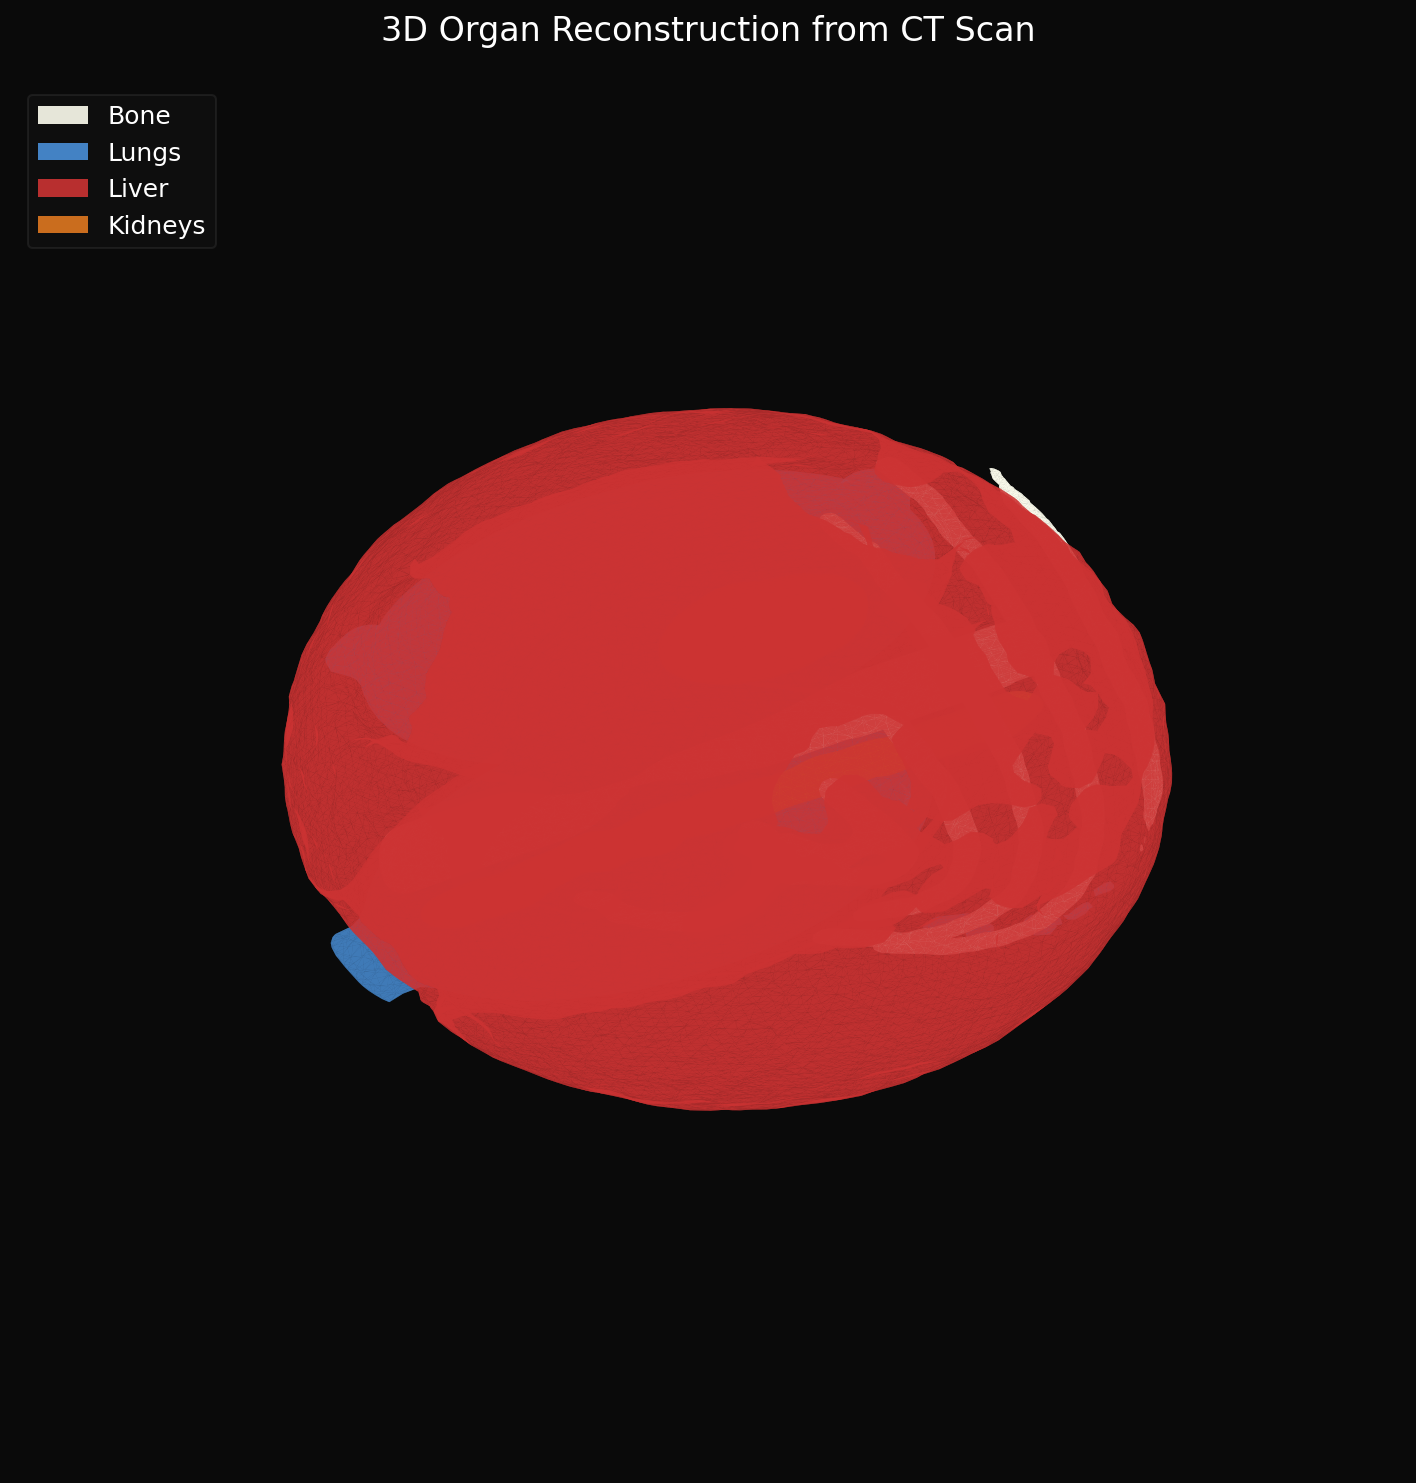
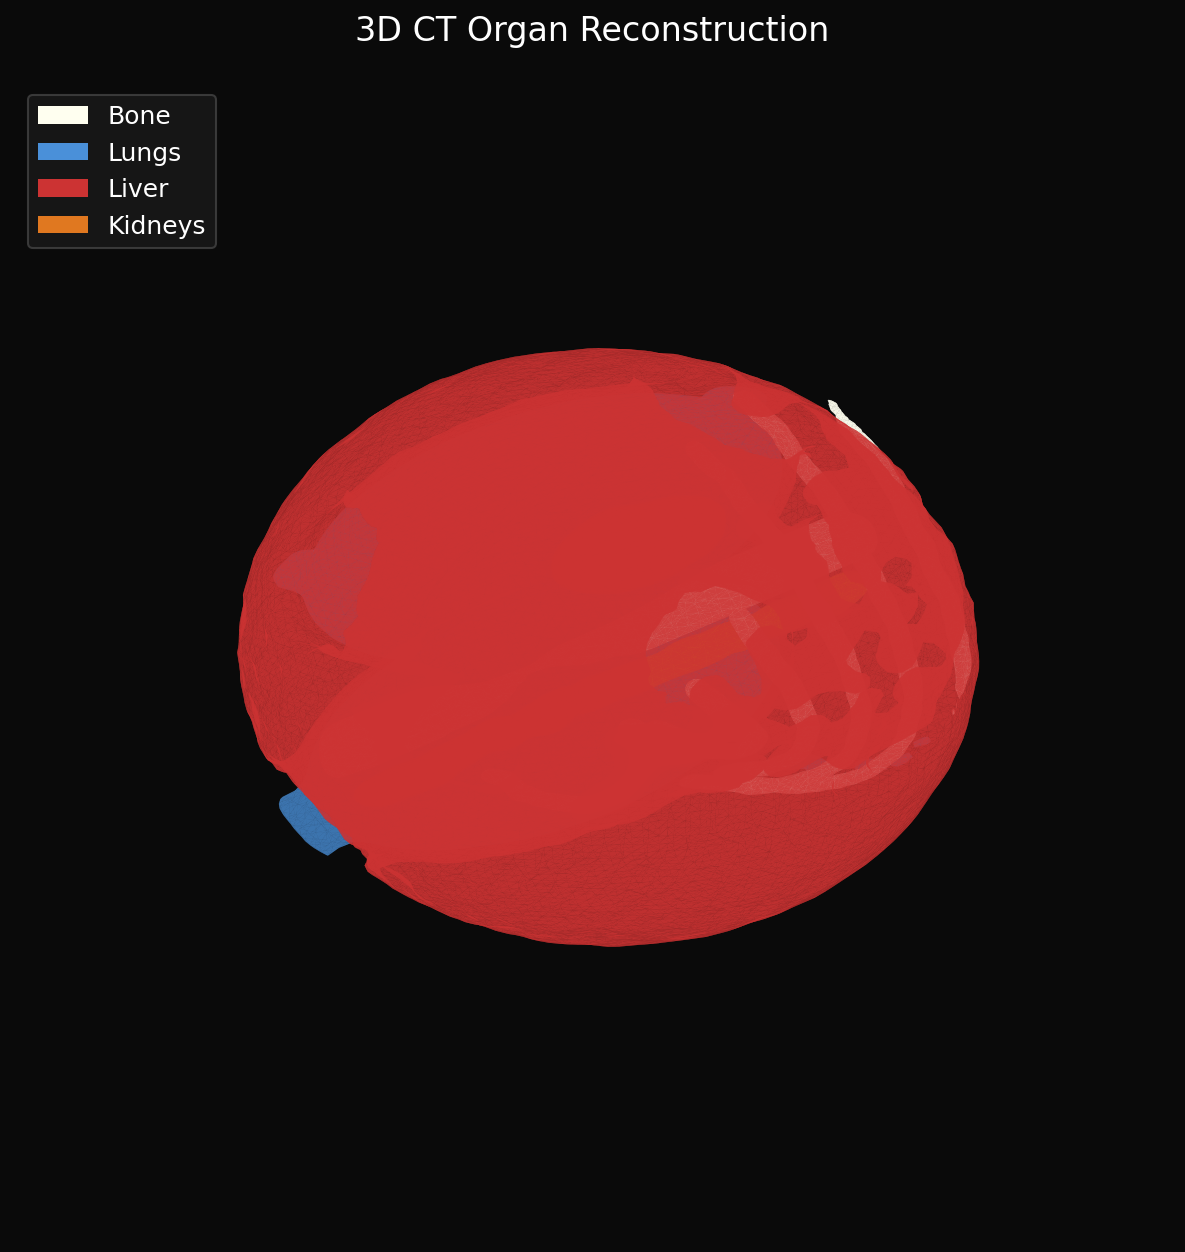
add run.py — single command pipeline execution

diff --git a/run.py b/run.py
@@ -1,0 +1,225 @@
+"""
+CT Organ Reconstruction Pipeline
+Run this script to generate all outputs in one command:
+    python run.py
+"""
+
+import numpy as np
+import matplotlib.pyplot as plt
+from scipy import ndimage
+from skimage import measure
+from mpl_toolkits.mplot3d import Axes3D
+from mpl_toolkits.mplot3d.art3d import Poly3DCollection
+import matplotlib.animation as animation
+import struct
+import os
+import warnings
+warnings.filterwarnings('ignore')
+
+os.makedirs('outputs', exist_ok=True)
+os.makedirs('outputs/meshes', exist_ok=True)
+
+print("=" * 55)
+print("  CT Organ Reconstruction Pipeline")
+print("=" * 55)
+
+# ── STEP 1 — Generate CT volume ────────────────────────────────────
+print("\n[1/5] Generating CT volume...")
+
+np.random.seed(42)
+
+def generate_ct_volume(shape=(128, 256, 256)):
+    volume = np.full(shape, -1000, dtype=np.float32)
+    z, y, x = np.ogrid[:shape[0], :shape[1], :shape[2]]
+    cz, cy, cx = shape[0]//2, shape[1]//2, shape[2]//2
+    body = ((z-cz)/50)**2 + ((y-cy)/90)**2 + ((x-cx)/70)**2 < 1
+    volume[body] = 50
+    spine = ((y-cy)/8)**2 + ((x-cx)/8)**2 < 1
+    volume[spine & body] = 700
+    for i, zpos in enumerate(range(30, 100, 10)):
+        angle = i * 0.3
+        for t in np.linspace(0, np.pi, 60):
+            rx = int(cx + 55 * np.cos(t) * np.cos(angle))
+            ry = int(cy + 55 * np.sin(t))
+            rz = int(zpos + 5 * np.sin(t * 2))
+            if 0<=rx<shape[2] and 0<=ry<shape[1] and 0<=rz<shape[0]:
+                volume[max(0,rz-2):rz+2,
+                       max(0,ry-2):ry+2,
+                       max(0,rx-2):rx+2] = 700
+    lung_l = ((z-cz)/40)**2+((y-(cy-20))/35)**2+((x-(cx-25))/25)**2 < 1
+    lung_r = ((z-cz)/40)**2+((y-(cy-20))/35)**2+((x-(cx+25))/25)**2 < 1
+    volume[lung_l & body] = -500
+    volume[lung_r & body] = -500
+    liver = ((z-(cz+15))/25)**2+((y-(cy+15))/30)**2+((x-(cx+20))/28)**2 < 1
+    volume[liver & body] = 60
+    kidney_l = ((z-cz)/15)**2+((y-(cy+10))/12)**2+((x-(cx-30))/10)**2 < 1
+    kidney_r = ((z-cz)/15)**2+((y-(cy+10))/12)**2+((x-(cx+30))/10)**2 < 1
+    volume[kidney_l & body] = 30
+    volume[kidney_r & body] = 30
+    aorta = ((y-(cy+5))/6)**2 + ((x-(cx-8))/6)**2 < 1
+    volume[aorta & body] = 40
+    noise = np.random.normal(0, 15, shape).astype(np.float32)
+    volume += noise
+    volume = ndimage.gaussian_filter(volume, sigma=0.8)
+    return volume
+
+volume = generate_ct_volume()
+print(f"    Volume shape: {volume.shape} — "
+      f"HU range: {volume.min():.0f} to {volume.max():.0f}")
+
+# ── STEP 2 — Segment organs ────────────────────────────────────────
+print("\n[2/5] Segmenting organs...")
+
+def segment_organs(volume):
+    masks = {}
+    bone = volume > 350
+    bone = ndimage.binary_closing(bone, iterations=2)
+    masks['bone'] = ndimage.binary_fill_holes(bone)
+
+    lung = (volume > -700) & (volume < -300)
+    labeled, n = ndimage.label(lung)
+    sizes = ndimage.sum(lung, labeled, range(1, n+1))
+    lung = np.isin(labeled, [i+1 for i,s in enumerate(sizes) if s>500])
+    lung = ndimage.binary_closing(lung, iterations=3)
+    masks['lungs'] = ndimage.binary_fill_holes(lung)
+
+    liver = (volume > 45) & (volume < 80)
+    liver = ndimage.binary_opening(liver, iterations=2)
+    liver = ndimage.binary_closing(liver, iterations=4)
+    liver = ndimage.binary_fill_holes(liver)
+    labeled, n = ndimage.label(liver)
+    if n > 0:
+        sizes = ndimage.sum(liver, labeled, range(1, n+1))
+        liver = labeled == (np.argmax(sizes) + 1)
+    masks['liver'] = liver
+
+    kidney = (volume > 20) & (volume < 45)
+    kidney = ndimage.binary_opening(kidney, iterations=2)
+    kidney = ndimage.binary_closing(kidney, iterations=3)
+    labeled, n = ndimage.label(kidney)
+    if n > 0:
+        sizes = ndimage.sum(kidney, labeled, range(1, n+1))
+        kidney = np.isin(labeled, np.argsort(sizes)[-2:]+1)
+    masks['kidneys'] = kidney
+    return masks
+
+masks = segment_organs(volume)
+for name, mask in masks.items():
+    print(f"    {name:<10}: {mask.sum():>8,} voxels")
+
+# ── STEP 3 — Build 3D meshes ───────────────────────────────────────
+print("\n[3/5] Building 3D meshes (Marching Cubes)...")
+
+organ_config = {
+    'bone':    {'step':1, 'color':'#FFFFF0', 'alpha':0.85},
+    'lungs':   {'step':2, 'color':'#4A90D9', 'alpha':0.55},
+    'liver':   {'step':2, 'color':'#CC3333', 'alpha':0.75},
+    'kidneys': {'step':1, 'color':'#E07820', 'alpha':0.85},
+}
+
+meshes = {}
+for organ, config in organ_config.items():
+    smoothed = ndimage.gaussian_filter(masks[organ].astype(float),
+                                       sigma=1.5)
+    verts, faces, normals, _ = measure.marching_cubes(
+        smoothed, level=0.5, step_size=config['step'])
+    meshes[organ] = {'verts':verts, 'faces':faces,
+                     'color':config['color'], 'alpha':config['alpha']}
+    print(f"    {organ:<10}: {len(verts):>6,} vertices, "
+          f"{len(faces):>7,} faces")
+
+# ── STEP 4 — Save outputs ──────────────────────────────────────────
+print("\n[4/5] Saving outputs...")
+
+# STL export
+def save_stl(verts, faces, filename):
+    with open(filename, 'wb') as f:
+        f.write(b'\x00' * 80)
+        f.write(struct.pack('<I', len(faces)))
+        for face in faces:
+            v0,v1,v2 = verts[face[0]],verts[face[1]],verts[face[2]]
+            e1, e2 = v1-v0, v2-v0
+            normal = np.cross(e1, e2)
+            norm = np.linalg.norm(normal)
+            if norm > 0: normal = normal/norm
+            f.write(struct.pack('<fff', *normal))
+            f.write(struct.pack('<fff', *v0))
+            f.write(struct.pack('<fff', *v1))
+            f.write(struct.pack('<fff', *v2))
+            f.write(struct.pack('<H', 0))
+
+for organ, mesh in meshes.items():
+    path = f'outputs/meshes/{organ}.stl'
+    save_stl(mesh['verts'], mesh['faces'], path)
+    size = os.path.getsize(path)/1024**2
+    print(f"    outputs/meshes/{organ}.stl — {size:.1f} MB")
+
+all_verts = np.vstack([m['verts'] for m in meshes.values()])
+
+# single render
+fig = plt.figure(figsize=(10, 10), facecolor='#0a0a0a')
+ax = fig.add_subplot(111, projection='3d', facecolor='#0a0a0a')
+for organ, mesh in meshes.items():
+    col = Poly3DCollection(mesh['verts'][mesh['faces']],
+                           alpha=mesh['alpha'], linewidth=0)
+    col.set_facecolor(mesh['color'])
+    col.set_edgecolor('none')
+    ax.add_collection3d(col)
+ax.set_xlim(all_verts[:,0].min(), all_verts[:,0].max())
+ax.set_ylim(all_verts[:,1].min(), all_verts[:,1].max())
+ax.set_zlim(all_verts[:,2].min(), all_verts[:,2].max())
+ax.view_init(elev=25, azim=45)
+ax.set_axis_off()
+ax.set_title('3D CT Organ Reconstruction',
+             color='white', fontsize=16, pad=20)
+from matplotlib.patches import Patch
+ax.legend(handles=[Patch(facecolor=m['color'],
+          label=o.capitalize()) for o,m in meshes.items()],
+          loc='upper left', labelcolor='white',
+          facecolor='#1a1a1a', edgecolor='#444', fontsize=12)
+plt.savefig('outputs/3d_reconstruction.png', dpi=150,
+            bbox_inches='tight', facecolor='#0a0a0a')
+plt.close()
+print("    outputs/3d_reconstruction.png")
+
+# rotating GIF
+print("\n[5/5] Generating rotation GIF (36 frames)...")
+fig = plt.figure(figsize=(8, 8), facecolor='#0a0a0a')
+ax = fig.add_subplot(111, projection='3d', facecolor='#0a0a0a')
+
+def init():
+    ax.cla()
+    ax.set_facecolor('#0a0a0a')
+    for organ, mesh in meshes.items():
+        col = Poly3DCollection(mesh['verts'][mesh['faces']],
+                               alpha=mesh['alpha'], linewidth=0)
+        col.set_facecolor(mesh['color'])
+        col.set_edgecolor('none')
+        ax.add_collection3d(col)
+    ax.set_xlim(all_verts[:,0].min(), all_verts[:,0].max())
+    ax.set_ylim(all_verts[:,1].min(), all_verts[:,1].max())
+    ax.set_zlim(all_verts[:,2].min(), all_verts[:,2].max())
+    ax.set_axis_off()
+    return []
+
+def animate(frame):
+    ax.view_init(elev=25, azim=frame*10)
+    ax.set_title('3D CT Organ Reconstruction',
+                 color='white', fontsize=14, pad=15)
+    return []
+
+ani = animation.FuncAnimation(fig, animate, init_func=init,
+                               frames=36, interval=100, blit=False)
+ani.save('outputs/rotation.gif', writer='pillow', fps=10, dpi=80)
+plt.close()
+print("    outputs/rotation.gif")
+
+print("\n" + "=" * 55)
+print("  Done! All outputs saved to outputs/")
+print("=" * 55)
+print("\n  outputs/")
+print("  ├── 3d_reconstruction.png")
+print("  ├── rotation.gif")
+print("  └── meshes/")
+for organ in meshes.keys():
+    print(f"      ├── {organ}.stl")
